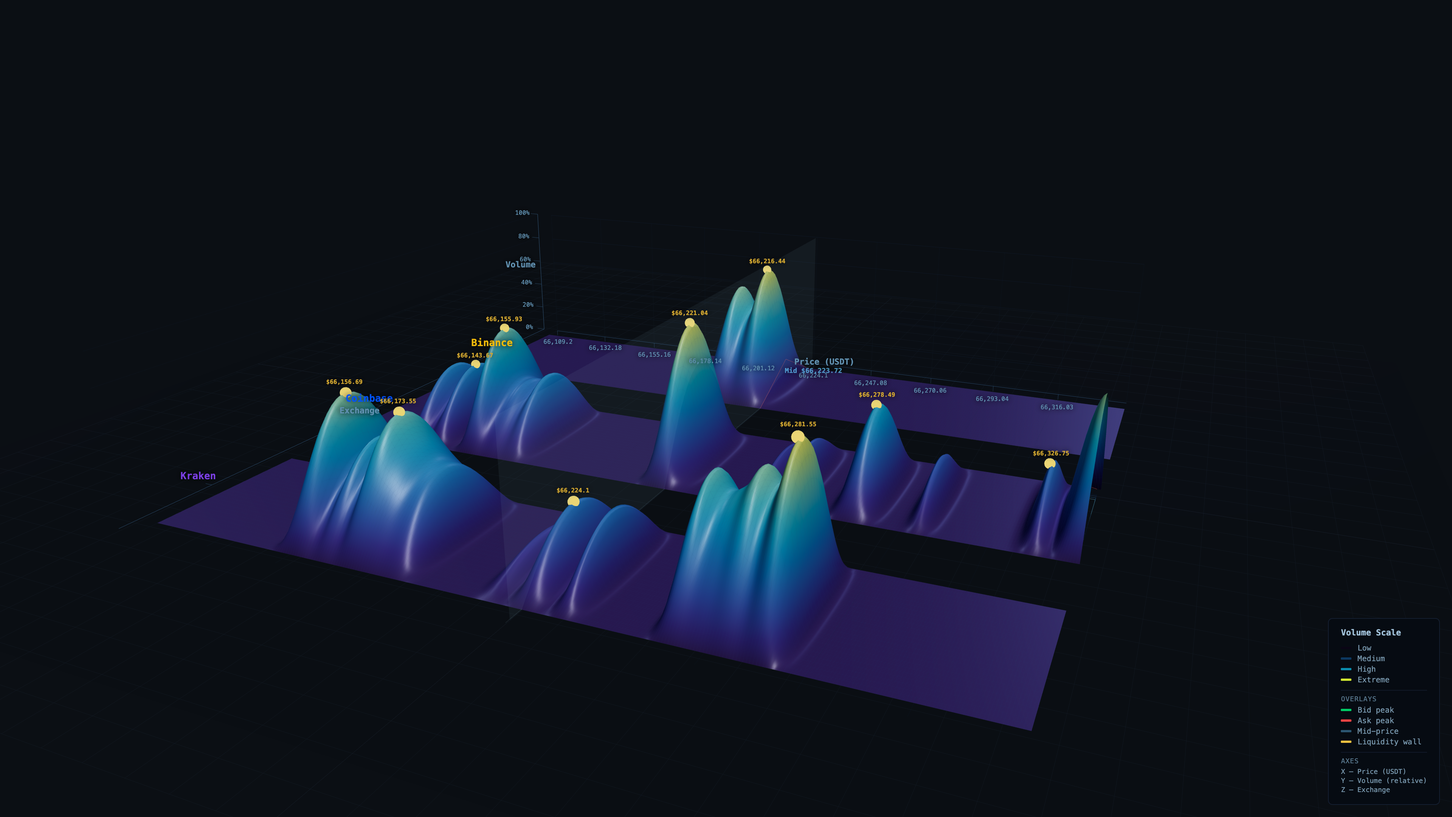
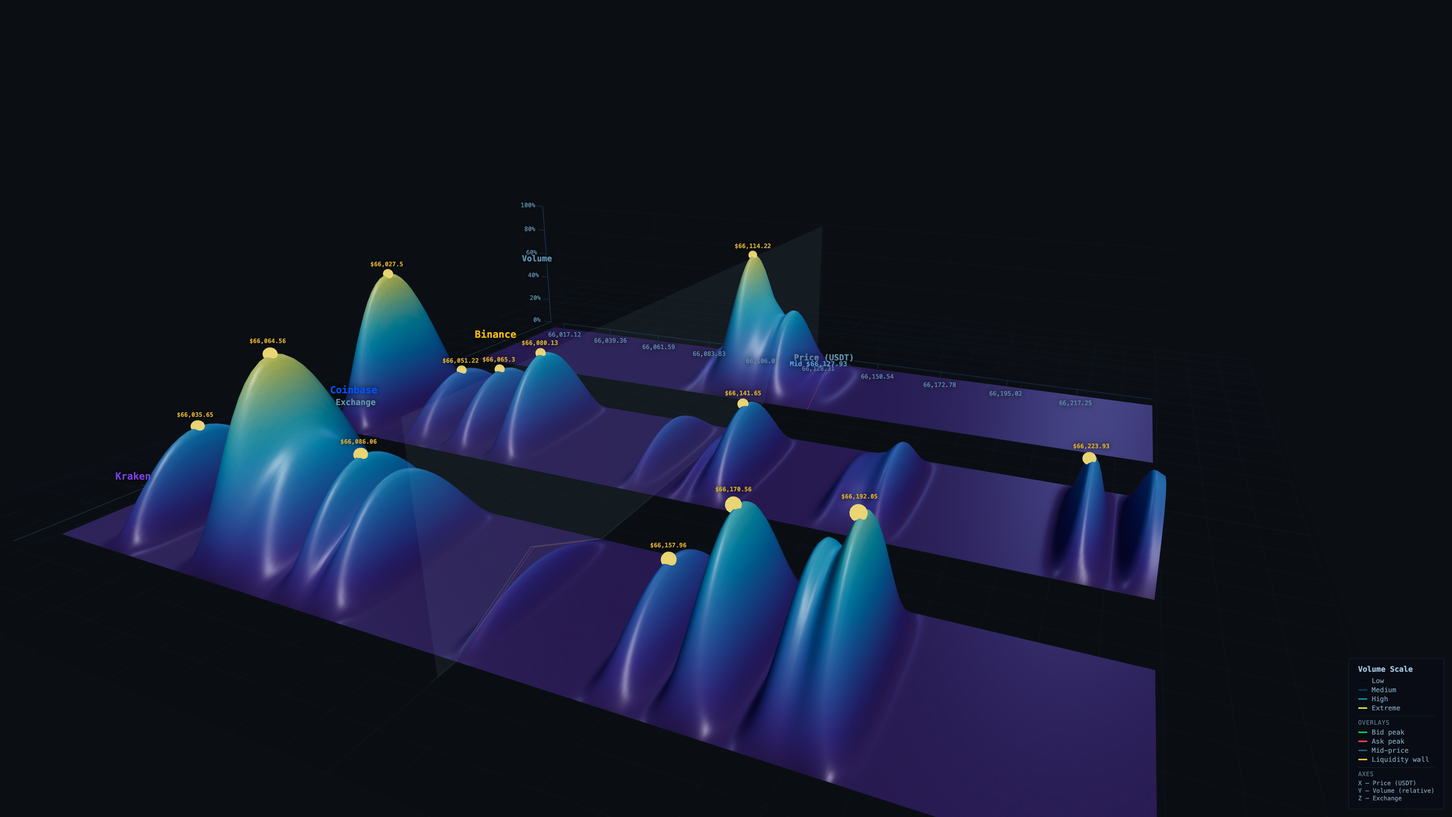
Optimize layout: tighter camera framing, compact legend, reduced empty space

Changed region(s): [[0.0312, 0.3102, 0.8125, 1.0], [0.9062, 0.8065, 0.9688, 0.9926], [0.3438, 0.3102, 0.375, 0.3412]]

diff --git a/output/3d_liquidity_pro.html b/output/3d_liquidity_pro.html
@@ -21,17 +21,17 @@
   #tooltip .t-wall { color:#f0c040; font-size:9px; margin-top:4px; }
 
   #legend {
-    position:fixed; bottom:16px; right:16px; z-index:90;
-    background:rgba(6,10,18,0.88); border:1px solid rgba(40,60,90,0.4);
-    padding:12px 16px; border-radius:6px; font-size:10px;
-    backdrop-filter:blur(8px); color:#7a9ab0; min-width:140px;
+    position:fixed; bottom:10px; right:10px; z-index:90;
+    background:rgba(8,12,20,0.85); border:1px solid rgba(40,60,90,0.3);
+    padding:8px 12px; border-radius:4px; font-size:9px;
+    backdrop-filter:blur(6px); color:#7a9ab0;
   }
-  #legend .l-title { font-size:11px; color:#a0c0d8; font-weight:600; margin-bottom:8px; }
-  #legend .l-row { display:flex; align-items:center; gap:8px; margin:3px 0; }
-  #legend .l-swatch { width:14px; height:3px; border-radius:1px; }
-  .l-section { margin-top:8px; padding-top:6px; border-top:1px solid rgba(40,60,90,0.3); }
-  .l-section-title { font-size:9px; color:#5a7a90; text-transform:uppercase; letter-spacing:0.5px; margin-bottom:4px; }
-  #legend .l-axis { display:flex; align-items:center; gap:6px; margin:2px 0; font-size:9px; }
+  #legend .l-title { font-size:10px; color:#a0c0d8; font-weight:600; margin-bottom:5px; }
+  #legend .l-row { display:flex; align-items:center; gap:6px; margin:2px 0; }
+  #legend .l-swatch { width:12px; height:2px; border-radius:1px; }
+  .l-section { margin-top:5px; padding-top:4px; border-top:1px solid rgba(40,60,90,0.25); }
+  .l-section-title { font-size:8px; color:#5a7a90; text-transform:uppercase; letter-spacing:0.4px; margin-bottom:3px; }
+  #legend .l-axis { display:flex; align-items:center; gap:5px; margin:1px 0; font-size:8px; }
 </style>
 </head>
 <body>
@@ -71,7 +71,7 @@ import { OrbitControls } from 'three/addons/controls/OrbitControls.js';
 import { CSS2DRenderer, CSS2DObject } from 'three/addons/renderers/CSS2DRenderer.js';
 
 /* ═══════════════════ DATA ═══════════════════ */
-const D = {"exchanges":["Binance","Coinbase","Kraken"],"profiles":{"Binance":[0.0,0.0,0.0,0.0,0.0,0.0,0.0,0.0,0.0,0.0,0.0,0.0,0.0,0.0,0.0,0.0,0.0,0.0,0.0,0.0,0.0,0.0,0.0,0.0,0.0,0.0,0.0,0.0,0.0,0.0,0.0,0.0,0.0,0.0,0.0,0.0,0.0,0.0,0.0,0.0,0.0,0.0,0.0,0.0,0.0,0.0,0.0,0.0,0.0,0.0,0.0,0.0,0.0,0.0,0.0,0.0,0.0,0.0,0.0,0.0,0.0,0.0,0.0,0.0,0.0,0.0,0.0,0.0,0.0,0.0,0.0,0.0,0.0,0.0,0.0,0.0,0.0,0.0,0.0,0.0,0.0,0.0,0.0,0.0,0.0,0.0,0.0,0.0,0.0,0.0,0.0,0.0,0.0,0.0,0.0,0.0,0.0,0.0,0.0,0.0,0.0,0.0,0.0,0.0,0.0,0.0,0.0,0.0,0.0,0.0001,0.0005,0.0017,0.0045,0.0103,0.021,0.0393,0.0684,0.1115,0.1716,0.2496,0.3438,0.4491,0.5572,0.6581,0.7419,0.8009,0.8311,0.8333,0.8122,0.7757,0.7329,0.6932,0.6652,0.6562,0.6713,0.7117,0.7735,0.8472,0.9192,0.9745,1.0,0.9874,0.9345,0.8457,0.7305,0.6016,0.4722,0.3533,0.2526,0.1732,0.1148,0.0742,0.0473,0.0301,0.019,0.012,0.0074,0.0044,0.0025,0.0013,0.0006,0.0003,0.0001,0.0,0.0,0.0,0.0,0.0,0.0,0.0,0.0,0.0,0.0,0.0,0.0,0.0,0.0,0.0,0.0,0.0,0.0,0.0,0.0,0.0,0.0,0.0,0.0,0.0,0.0,0.0,0.0,0.0,0.0,0.0,0.0,0.0,0.0,0.0,0.0,0.0,0.0,0.0,0.0,0.0,0.0,0.0,0.0,0.0,0.0,0.0,0.0,0.0,0.0,0.0,0.0,0.0,0.0,0.0,0.0,0.0,0.0,0.0,0.0,0.0,0.0,0.0,0.0,0.0,0.0,0.0,0.0,0.0,0.0,0.0,0.0,0.0,0.0,0.0,0.0,0.0,0.0,0.0,0.0,0.0,0.0,0.0,0.0,0.0,0.0,0.0,0.0,0.0,0.0,0.0,0.0,0.0,0.0,0.0,0.0,0.0,0.0,0.0,0.0,0.0,0.0,0.0,0.0,0.0,0.0,0.0,0.0,0.0,0.0,0.0,0.0,0.0,0.0,0.0,0.0,0.0,0.0,0.0,0.0,0.0,0.0,0.0,0.0,0.0,0.0,0.0,0.0,0.0,0.0,0.0,0.0,0.0,0.0,0.0,0.0,0.0],"Coinbase":[0.0,0.0,0.0,0.0,0.0,0.0,0.0,0.0,0.0,0.0,0.0,0.0,0.0,0.0,0.0,0.0,0.0,0.0,0.0,0.0,0.0,0.0,0.0,0.0,0.0003,0.0016,0.0071,0.0242,0.0638,0.1332,0.2259,0.3217,0.3981,0.4421,0.4519,0.4319,0.3901,0.3387,0.2937,0.271,0.2803,0.3197,0.376,0.4309,0.4674,0.4731,0.4415,0.3732,0.279,0.1793,0.0966,0.0441,0.0238,0.0357,0.0862,0.1835,0.3224,0.4788,0.6212,0.7259,0.7825,0.7914,0.7598,0.6989,0.6221,0.5438,0.4765,0.4293,0.4053,0.4006,0.4056,0.4096,0.405,0.3908,0.3724,0.3596,0.3611,0.38,0.4117,0.446,0.4711,0.4768,0.456,0.4047,0.3247,0.2277,0.1345,0.0647,0.0246,0.0073,0.0016,0.0003,0.0,0.0,0.0,0.0,0.0,0.0,0.0,0.0,0.0,0.0,0.0,0.0,0.0,0.0,0.0,0.0,0.0,0.0,0.0,0.0,0.0,0.0,0.0,0.0,0.0,0.0,0.0,0.0,0.0,0.0,0.0,0.0,0.0,0.0,0.0,0.0,0.0,0.0,0.0,0.0,0.0,0.0001,0.0009,0.0044,0.0161,0.0472,0.1112,0.2161,0.3568,0.5163,0.6739,0.8123,0.9185,0.983,1.0,0.9688,0.8941,0.7858,0.6573,0.5234,0.3983,0.2922,0.2089,0.146,0.0977,0.0598,0.0318,0.014,0.005,0.0014,0.0003,0.0,0.0,0.0,0.0,0.0,0.0,0.0,0.0,0.0,0.0,0.0,0.0,0.0,0.0,0.0002,0.0009,0.004,0.0134,0.0348,0.0709,0.116,0.1563,0.1771,0.1712,0.1418,0.1018,0.0694,0.0617,0.0854,0.1338,0.1897,0.2342,0.2543,0.2456,0.2107,0.1586,0.1024,0.0553,0.0243,0.0086,0.0024,0.0005,0.0001,0.0,0.0,0.0001,0.0006,0.0029,0.0109,0.0322,0.0762,0.1477,0.2409,0.341,0.4327,0.5062,0.5576,0.586,0.592,0.5771,0.5431,0.4914,0.4225,0.3382,0.2448,0.1548,0.0827,0.0362,0.0127,0.0035,0.0007,0.0001,0.0,0.0001,0.0009,0.004,0.0142,0.0393,0.0863,0.153,0.2237,0.2742,0.2845,0.2497,0.183,0.11,0.053,0.0201,0.0059,0.0013,0.0002,0.0,0.0,0.0,0.0,0.0,0.0,0.0,0.0,0.0,0.0,0.0,0.0,0.0,0.0,0.0,0.0,0.0,0.0,0.0,0.0,0.0,0.0003,0.0015,0.0068,0.023,0.0603,0.1248,0.2089,0.2913,0.348,0.3641,0.3361,0.2724,0.1935,0.1296,0.1098,0.1483,0.2386,0.3583,0.4823,0.5941,0.6867,0.7593,0.8128,0.848,0.8655],"Kraken":[0.0,0.0,0.0,0.0,0.0,0.0,0.0,0.0,0.0,0.0,0.0,0.0,0.0,0.0,0.0,0.0,0.0,0.0,0.0,0.0,0.0,0.0,0.0,0.0,0.0,0.0,0.0,0.0,0.0,0.0,0.0,0.0,0.0,0.0,0.0,0.0,0.0,0.0,0.0,0.0,0.0,0.0,0.0,0.0,0.0,0.0,0.0,0.0,0.0003,0.0017,0.0078,0.0266,0.0708,0.1496,0.2591,0.3811,0.4963,0.5955,0.6787,0.7475,0.8001,0.8314,0.8353,0.808,0.75,0.6682,0.577,0.4969,0.4484,0.4422,0.4729,0.5209,0.5622,0.5788,0.5652,0.5294,0.4901,0.4687,0.4805,0.5266,0.5944,0.6649,0.7216,0.7556,0.7659,0.7568,0.7346,0.7056,0.6744,0.6442,0.6164,0.5909,0.5667,0.5428,0.5194,0.4985,0.4826,0.4732,0.4692,0.467,0.4613,0.4472,0.4212,0.3812,0.3266,0.2589,0.1841,0.1135,0.0587,0.0247,0.0083,0.0022,0.0004,0.0001,0.0,0.0,0.0,0.0,0.0,0.0,0.0,0.0,0.0,0.0,0.0,0.0,0.0,0.0001,0.0003,0.0016,0.0055,0.0154,0.0339,0.0612,0.093,0.123,0.1458,0.1578,0.1559,0.1385,0.1082,0.0747,0.0527,0.0562,0.092,0.1558,0.233,0.3055,0.3595,0.3889,0.3937,0.3768,0.3419,0.2921,0.2308,0.1649,0.1069,0.0732,0.078,0.1252,0.2038,0.2901,0.3586,0.3903,0.3761,0.3175,0.2294,0.1378,0.0669,0.0256,0.0076,0.0017,0.0003,0.0,0.0,0.0,0.0,0.0,0.0,0.0,0.0,0.0,0.0,0.0,0.0,0.0,0.0,0.0002,0.001,0.005,0.019,0.056,0.1317,0.2514,0.3994,0.5439,0.6554,0.7205,0.7417,0.73,0.7,0.6657,0.6382,0.6237,0.6228,0.6312,0.6435,0.656,0.6689,0.6854,0.7086,0.7388,0.7716,0.7985,0.8108,0.8037,0.7791,0.7459,0.7185,0.7111,0.7326,0.7823,0.8507,0.9215,0.9768,1.0,0.9782,0.9027,0.7719,0.5961,0.4026,0.2297,0.1072,0.0398,0.0115,0.0026,0.0004,0.0,0.0,0.0,0.0,0.0,0.0,0.0,0.0,0.0,0.0,0.0,0.0,0.0,0.0,0.0,0.0,0.0,0.0,0.0,0.0,0.0,0.0,0.0,0.0,0.0,0.0,0.0,0.0,0.0,0.0,0.0,0.0,0.0,0.0,0.0,0.0,0.0,0.0,0.0,0.0,0.0,0.0,0.0,0.0,0.0,0.0,0.0,0.0,0.0,0.0,0.0,0.0,0.0,0.0,0.0,0.0,0.0,0.0,0.0,0.0,0.0,0.0,0.0]},"slopes":{"Binance":[0.0,0.0,0.0,0.0,0.0,0.0,0.0,0.0,0.0,0.0,0.0,0.0,0.0,0.0,0.0,0.0,0.0,0.0,0.0,0.0,0.0,0.0,0.0,0.0,0.0,0.0,0.0,0.0,0.0,0.0,0.0,0.0,0.0,0.0,0.0,0.0,0.0,0.0,0.0,0.0,0.0,0.0,0.0,0.0,0.0,0.0,0.0,0.0,0.0,0.0,0.0,0.0,0.0,0.0,0.0,0.0,0.0,0.0,0.0,0.0,0.0,0.0,0.0,0.0,0.0,0.0,0.0,0.0,0.0,0.0,0.0,0.0,0.0,0.0,0.0,0.0,0.0,0.0,0.0,0.0,0.0,0.0,0.0,0.0,0.0,0.0,0.0,0.0,0.0,0.0,0.0,0.0,0.0,0.0,0.0,0.0,0.0,0.0,0.0,0.0,0.0,0.0,0.0,0.0,0.0,0.0,0.0,0.0001,0.0005,0.0019,0.006,0.0153,0.0333,0.0641,0.1125,0.1832,0.2795,0.3997,0.5346,0.6666,0.772,0.8259,0.8093,0.7152,0.5527,0.3452,0.1253,0.0732,0.2229,0.307,0.3193,0.2622,0.1432,0.0235,0.2148,0.3958,0.5248,0.5642,0.4927,0.3127,0.0498,0.2537,0.5486,0.7897,0.9448,1.0,0.9612,0.8501,0.6973,0.5334,0.3832,0.261,0.1709,0.1096,0.0701,0.0452,0.0293,0.0189,0.0119,0.0071,0.004,0.0021,0.001,0.0004,0.0001,0.0,0.0,0.0,0.0,0.0,0.0,0.0,0.0,0.0,0.0,0.0,0.0,0.0,0.0,0.0,0.0,0.0,0.0,0.0,0.0,0.0,0.0,0.0,0.0,0.0,0.0,0.0,0.0,0.0,0.0,0.0,0.0,0.0,0.0,0.0,0.0,0.0,0.0,0.0,0.0,0.0,0.0,0.0,0.0,0.0,0.0,0.0,0.0,0.0,0.0,0.0,0.0,0.0,0.0,0.0,0.0,0.0,0.0,0.0,0.0,0.0,0.0,0.0,0.0,0.0,0.0,0.0,0.0,0.0,0.0,0.0,0.0,0.0,0.0,0.0,0.0,0.0,0.0,0.0,0.0,0.0,0.0,0.0,0.0,0.0,0.0,0.0,0.0,0.0,0.0,0.0,0.0,0.0,0.0,0.0,0.0,0.0,0.0,0.0,0.0,0.0,0.0,0.0,0.0,0.0,0.0,0.0,0.0,0.0,0.0,0.0,0.0,0.0,0.0,0.0,0.0,0.0,0.0,0.0,0.0,0.0,0.0,0.0,0.0,0.0,0.0,0.0,0.0,0.0,0.0,0.0,0.0,0.0,0.0,0.0],"Coinbase":[0.0,0.0,0.0,0.0,0.0,0.0,0.0,0.0,0.0,0.0,0.0,0.0,0.0,0.0,0.0,0.0,0.0,0.0,0.0,0.0,0.0,0.0,0.0001,0.0008,0.0049,0.0216,0.0713,0.1788,0.3437,0.5113,0.5944,0.5428,0.3798,0.1699,0.0324,0.195,0.2937,0.3041,0.2137,0.042,0.1536,0.3016,0.3506,0.2883,0.1333,0.0815,0.315,0.5126,0.6116,0.5752,0.4262,0.2294,0.0266,0.1968,0.4663,0.7448,0.9312,0.9423,0.779,0.5085,0.2068,0.0715,0.2919,0.4341,0.4891,0.4594,0.3611,0.2244,0.0905,0.001,0.0286,0.0018,0.0595,0.1029,0.0981,0.0355,0.0642,0.1594,0.2082,0.1874,0.0972,0.0477,0.2276,0.414,0.5582,0.6,0.5141,0.3464,0.181,0.0725,0.022,0.0051,0.0009,0.0001,0.0,0.0,0.0,0.0,0.0,0.0,0.0,0.0,0.0,0.0,0.0,0.0,0.0,0.0,0.0,0.0,0.0,0.0,0.0,0.0,0.0,0.0,0.0,0.0,0.0,0.0,0.0,0.0,0.0,0.0,0.0,0.0,0.0,0.0,0.0,0.0,0.0,0.0,0.0004,0.0028,0.0133,0.048,0.1352,0.2997,0.5325,0.7746,0.9467,1.0,0.9335,0.7713,0.5381,0.257,0.0446,0.3338,0.5771,0.747,0.8273,0.8165,0.7293,0.5973,0.4608,0.3507,0.2719,0.208,0.1445,0.0846,0.0398,0.0147,0.0042,0.0009,0.0001,0.0,0.0,0.0,0.0,0.0,0.0,0.0,0.0,0.0,0.0,0.0001,0.0005,0.0028,0.0121,0.0394,0.0971,0.1813,0.2562,0.2693,0.1925,0.047,0.1112,0.219,0.2283,0.1265,0.0501,0.2275,0.3291,0.3166,0.2037,0.0359,0.1375,0.2744,0.3417,0.3257,0.246,0.1473,0.0693,0.0254,0.0072,0.0016,0.0002,0.0003,0.0018,0.0088,0.0324,0.0923,0.206,0.3645,0.5195,0.6095,0.6047,0.5209,0.394,0.2517,0.1085,0.0281,0.1542,0.2705,0.3804,0.483,0.5605,0.5785,0.5111,0.3738,0.2207,0.1032,0.0377,0.0106,0.0022,0.0001,0.0026,0.0122,0.0421,0.1114,0.2273,0.3584,0.4332,0.3821,0.192,0.0772,0.3201,0.4407,0.4101,0.2834,0.1485,0.0592,0.0179,0.0041,0.0007,0.0001,0.0,0.0,0.0,0.0,0.0,0.0,0.0,0.0,0.0,0.0,0.0,0.0,0.0,0.0,0.0,0.0,0.0,0.0001,0.0008,0.0047,0.0206,0.0678,0.1688,0.321,0.4685,0.5249,0.4387,0.2297,0.0374,0.289,0.4497,0.4503,0.2642,0.059,0.4064,0.662,0.7685,0.7436,0.6444,0.521,0.3975,0.2796,0.1662,0.1103],"Kraken":[0.0,0.0,0.0,0.0,0.0,0.0,0.0,0.0,0.0,0.0,0.0,0.0,0.0,0.0,0.0,0.0,0.0,0.0,0.0,0.0,0.0,0.0,0.0,0.0,0.0,0.0,0.0,0.0,0.0,0.0,0.0,0.0,0.0,0.0,0.0,0.0,0.0,0.0,0.0,0.0,0.0,0.0,0.0,0.0,0.0,0.0,0.0001,0.0008,0.0046,0.0203,0.0673,0.1705,0.3332,0.51,0.6267,0.6422,0.5804,0.4938,0.4116,0.3289,0.2272,0.0953,0.0632,0.2309,0.3786,0.4686,0.4638,0.3482,0.148,0.0665,0.2131,0.2416,0.1565,0.0081,0.1335,0.2033,0.1644,0.0258,0.1567,0.3084,0.3745,0.3444,0.2455,0.1198,0.0031,0.0847,0.1386,0.1629,0.1661,0.1571,0.1444,0.1347,0.1304,0.1279,0.1198,0.0997,0.0686,0.0363,0.0169,0.0215,0.0535,0.1085,0.1786,0.256,0.3312,0.3859,0.3938,0.3396,0.2402,0.1363,0.061,0.0214,0.0058,0.0012,0.0002,0.0,0.0,0.0,0.0,0.0,0.0,0.0,0.0,0.0,0.0,0.0,0.0001,0.0009,0.0041,0.0141,0.0374,0.0768,0.1241,0.1599,0.1673,0.1429,0.0942,0.0274,0.0521,0.1291,0.1728,0.1504,0.0501,0.1065,0.2698,0.3818,0.4053,0.3425,0.2258,0.0925,0.0327,0.1401,0.2294,0.3009,0.3444,0.3356,0.2482,0.0782,0.1409,0.3406,0.4464,0.419,0.2711,0.0475,0.197,0.3971,0.4866,0.4401,0.3038,0.1605,0.0646,0.0197,0.0045,0.0008,0.0001,0.0,0.0,0.0,0.0,0.0,0.0,0.0,0.0,0.0,0.0,0.0,0.0004,0.0027,0.0132,0.0485,0.138,0.3052,0.5291,0.7249,0.7921,0.6932,0.4782,0.2334,0.0257,0.1127,0.1743,0.1674,0.1135,0.0417,0.0202,0.0561,0.0673,0.0689,0.0793,0.1073,0.1448,0.1706,0.1614,0.1063,0.0143,0.086,0.1566,0.1639,0.0942,0.038,0.1928,0.3198,0.3767,0.3414,0.2126,0.0038,0.2635,0.5585,0.8302,1.0,0.992,0.7996,0.5141,0.2591,0.101,0.0301,0.0068,0.0011,0.0001,0.0,0.0,0.0,0.0,0.0,0.0,0.0,0.0,0.0,0.0,0.0,0.0,0.0,0.0,0.0,0.0,0.0,0.0,0.0,0.0,0.0,0.0,0.0,0.0,0.0,0.0,0.0,0.0,0.0,0.0,0.0,0.0,0.0,0.0,0.0,0.0,0.0,0.0,0.0,0.0,0.0,0.0,0.0,0.0,0.0,0.0,0.0,0.0,0.0,0.0,0.0,0.0,0.0,0.0,0.0,0.0,0.0,0.0,0.0,0.0,0.0]},"n_bins":300,"price_labels":[{"idx":0,"val":66109.2},{"idx":30,"val":66132.18},{"idx":60,"val":66155.16},{"idx":90,"val":66178.14},{"idx":120,"val":66201.12},{"idx":150,"val":66224.1},{"idx":180,"val":66247.08},{"idx":210,"val":66270.06},{"idx":240,"val":66293.04},{"idx":270,"val":66316.03}],"price_range":[66109.2,66338.24],"mid_price":66223.72,"mid_idx":150,"bid_ask":{"Binance":{"bid_idx":143.2,"ask_idx":150.0,"bid_price":66218.74,"ask_price":66224.1},"Coinbase":{"bid_idx":77.2,"ask_idx":298.5,"bid_price":66168.18,"ask_price":66337.47},"Kraken":{"bid_idx":149.2,"ask_idx":150.0,"bid_price":66223.34,"ask_price":66224.1}},"walls":{"Binance":[{"idx":140,"height":1.0,"price":66216.44}],"Coinbase":[{"idx":146,"height":1.0,"price":66221.04},{"idx":61,"height":0.791,"price":66155.93},{"idx":221,"height":0.592,"price":66278.49},{"idx":45,"height":0.473,"price":66143.67},{"idx":284,"height":0.364,"price":66326.75}],"Kraken":[{"idx":225,"height":1.0,"price":66281.55},{"idx":62,"height":0.835,"price":66156.69},{"idx":84,"height":0.766,"price":66173.55},{"idx":150,"height":0.394,"price":66224.1}]},"contours":{"Binance":[{"level":0.15,"segments":[[118,149]]},{"level":0.3,"segments":[[120,147]]},{"level":0.5,"segments":[[122,145]]},{"level":0.7,"segments":[[124,130],[135,144]]},{"level":0.9,"segments":[[138,142]]}],"Coinbase":[{"level":0.15,"segments":[[30,49],[55,85],[139,154],[184,186],[193,198],[215,228],[242,247],[281,287],[291,299]]},{"level":0.3,"segments":[[31,37],[41,47],[56,84],[140,152],[216,226],[283,285],[292,299]]},{"level":0.5,"segments":[[58,65],[141,151],[218,223],[294,299]]},{"level":0.7,"segments":[[59,62],[143,149],[296,299]]},{"level":0.9,"segments":[[144,147]]}],"Kraken":[{"level":0.15,"segments":[[54,106],[137,138],[145,155],[160,166],[193,231]]},{"level":0.3,"segments":[[55,104],[147,152],[162,165],[194,230]]},{"level":0.5,"segments":[[57,66],[71,75],[79,94],[195,229]]},{"level":0.7,"segments":[[59,64],[82,87],[197,200],[210,228]]},{"level":0.9,"segments":[[223,227]]}]},"contour_levels":[0.15,0.3,0.5,0.7,0.9],"avg_imbalances":{"Binance":0.6238,"Coinbase":-0.0952,"Kraken":-0.0057},"raw_maxes":{"Binance":1.0114,"Coinbase":0.4573,"Kraken":0.2883}};
+const D = {"exchanges":["Binance","Coinbase","Kraken"],"profiles":{"Binance":[0.0,0.0,0.0,0.0,0.0,0.0,0.0,0.0,0.0,0.0,0.0,0.0,0.0,0.0,0.0,0.0,0.0,0.0,0.0,0.0,0.0,0.0,0.0,0.0,0.0,0.0,0.0,0.0,0.0,0.0,0.0,0.0,0.0,0.0,0.0,0.0,0.0,0.0,0.0,0.0,0.0,0.0,0.0,0.0,0.0,0.0,0.0,0.0,0.0,0.0,0.0,0.0,0.0,0.0,0.0,0.0,0.0,0.0,0.0,0.0,0.0,0.0,0.0,0.0,0.0,0.0,0.0,0.0,0.0,0.0,0.0,0.0,0.0,0.0,0.0,0.0,0.0,0.0,0.0,0.0,0.0,0.0,0.0,0.0,0.0,0.0,0.0,0.0,0.0,0.0,0.0,0.0,0.0,0.0,0.0,0.0,0.0,0.0,0.0,0.0,0.0,0.0001,0.0005,0.0013,0.003,0.0062,0.0117,0.0204,0.0332,0.0511,0.074,0.1014,0.1312,0.1607,0.1866,0.2063,0.2186,0.2249,0.2295,0.2385,0.2584,0.2938,0.3465,0.4153,0.4976,0.5899,0.6874,0.7839,0.8714,0.9411,0.9854,1.0,0.9852,0.946,0.8911,0.8306,0.7734,0.7252,0.6874,0.6576,0.6313,0.6051,0.5785,0.5543,0.5374,0.5317,0.538,0.5526,0.5689,0.5795,0.5782,0.5621,0.5311,0.4879,0.4367,0.382,0.3279,0.2774,0.2329,0.1958,0.1673,0.1478,0.1363,0.1308,0.1289,0.1278,0.1253,0.12,0.1114,0.0997,0.0855,0.0701,0.0547,0.0406,0.0286,0.019,0.012,0.0071,0.004,0.002,0.0009,0.0004,0.0001,0.0,0.0,0.0,0.0,0.0,0.0,0.0,0.0,0.0,0.0,0.0,0.0,0.0,0.0,0.0,0.0,0.0,0.0,0.0,0.0,0.0,0.0,0.0,0.0,0.0,0.0,0.0,0.0,0.0,0.0,0.0,0.0,0.0,0.0,0.0,0.0,0.0,0.0,0.0,0.0,0.0,0.0,0.0,0.0,0.0,0.0,0.0,0.0,0.0,0.0,0.0,0.0,0.0,0.0,0.0,0.0,0.0,0.0,0.0,0.0,0.0,0.0,0.0,0.0,0.0,0.0,0.0,0.0,0.0,0.0,0.0,0.0,0.0,0.0,0.0,0.0,0.0,0.0,0.0,0.0,0.0,0.0,0.0,0.0,0.0,0.0,0.0,0.0,0.0,0.0,0.0,0.0,0.0,0.0,0.0,0.0,0.0,0.0,0.0,0.0,0.0,0.0,0.0,0.0,0.0,0.0,0.0,0.0,0.0,0.0,0.0,0.0,0.0,0.0,0.0,0.0,0.0],"Coinbase":[0.0,0.0003,0.0016,0.0074,0.0258,0.0703,0.1535,0.2773,0.4285,0.5869,0.7341,0.8567,0.9453,0.9938,1.0,0.9658,0.8972,0.8026,0.6911,0.5701,0.4452,0.3215,0.2076,0.1152,0.0529,0.0195,0.0056,0.0012,0.0002,0.0,0.0,0.0,0.0,0.0,0.0002,0.0013,0.0056,0.0189,0.0493,0.1013,0.1692,0.2372,0.291,0.3256,0.3447,0.3534,0.3541,0.3446,0.3198,0.2755,0.2132,0.1431,0.0807,0.0372,0.0144,0.0079,0.0148,0.0375,0.0792,0.1377,0.2036,0.2663,0.3197,0.3618,0.3916,0.4067,0.4032,0.377,0.3259,0.2534,0.1716,0.0978,0.0455,0.0169,0.0051,0.0025,0.0065,0.0216,0.0576,0.1226,0.2139,0.3172,0.4142,0.4921,0.5446,0.5697,0.5678,0.5407,0.4912,0.4223,0.3375,0.2442,0.1546,0.0829,0.0365,0.0129,0.0036,0.0008,0.0001,0.0,0.0,0.0,0.0,0.0,0.0,0.0,0.0,0.0,0.0,0.0,0.0,0.0,0.0,0.0,0.0,0.0,0.0,0.0,0.0,0.0,0.0,0.0,0.0,0.0,0.0,0.0,0.0,0.0,0.0,0.0,0.0,0.0002,0.0011,0.0047,0.016,0.0422,0.0875,0.1464,0.2024,0.2366,0.2372,0.2039,0.1482,0.089,0.0431,0.0164,0.0049,0.0011,0.0002,0.0001,0.0008,0.0034,0.0115,0.0299,0.0615,0.1018,0.1396,0.1637,0.1702,0.1643,0.1579,0.1639,0.1898,0.2342,0.2884,0.3417,0.3857,0.4161,0.4311,0.43,0.4111,0.3721,0.3121,0.2356,0.1548,0.0857,0.0388,0.014,0.0039,0.0009,0.0001,0.0,0.0,0.0,0.0,0.0,0.0,0.0,0.0,0.0,0.0,0.0,0.0,0.0,0.0,0.0,0.0,0.0,0.0001,0.0007,0.0031,0.0105,0.0272,0.0554,0.0911,0.1254,0.1503,0.1638,0.1696,0.1724,0.1758,0.1811,0.1878,0.195,0.2024,0.2109,0.2225,0.2385,0.2592,0.2821,0.3027,0.3145,0.3106,0.2852,0.237,0.1725,0.1065,0.0541,0.0221,0.0071,0.0018,0.0003,0.0,0.0,0.0,0.0,0.0,0.0,0.0,0.0,0.0,0.0,0.0,0.0,0.0,0.0,0.0,0.0,0.0,0.0,0.0,0.0,0.0,0.0,0.0,0.0,0.0,0.0,0.0,0.0,0.0,0.0,0.0,0.0,0.0,0.0,0.0,0.0,0.0,0.0002,0.0015,0.0065,0.0222,0.0587,0.1228,0.2089,0.2982,0.3704,0.414,0.4279,0.4155,0.3808,0.326,0.2546,0.1751,0.1021,0.0489,0.0197,0.0112,0.021,0.0526,0.1102,0.1885,0.2707,0.3378,0.379,0.3939,0.3901,0.3783,0.369],"Kraken":[0.0,0.0,0.0,0.0,0.0,0.0,0.0,0.0,0.0,0.0,0.0,0.0,0.0,0.0,0.0,0.0003,0.0015,0.0068,0.0231,0.061,0.1281,0.2193,0.3173,0.4022,0.4617,0.4914,0.4896,0.4551,0.3885,0.297,0.1973,0.1102,0.0503,0.0183,0.0052,0.0011,0.0002,0.0,0.0,0.0,0.0,0.0,0.0,0.0,0.0,0.0,0.0,0.0002,0.0014,0.0064,0.0219,0.0589,0.1262,0.2219,0.3325,0.4416,0.5399,0.6264,0.7041,0.7755,0.8414,0.9004,0.9492,0.9837,1.0,0.9952,0.9687,0.9227,0.8623,0.7954,0.7308,0.6762,0.6356,0.6083,0.5892,0.5714,0.5494,0.5196,0.4812,0.4342,0.3798,0.3202,0.26,0.2065,0.1681,0.1515,0.1595,0.1913,0.2436,0.3111,0.3858,0.4569,0.512,0.5405,0.5364,0.5012,0.4444,0.3826,0.3353,0.3174,0.3327,0.3725,0.4204,0.4605,0.4818,0.4797,0.4546,0.41,0.3505,0.2807,0.2059,0.1341,0.0746,0.0343,0.0126,0.0036,0.0008,0.0001,0.0,0.0,0.0,0.0,0.0,0.0,0.0,0.0,0.0,0.0,0.0,0.0,0.0,0.0,0.0,0.0,0.0,0.0,0.0,0.0,0.0,0.0,0.0,0.0,0.0002,0.0012,0.0052,0.0172,0.0436,0.0858,0.1328,0.1637,0.1622,0.1293,0.0823,0.0413,0.0161,0.0048,0.0011,0.0002,0.0,0.0,0.0,0.0,0.0,0.0,0.0,0.0,0.0,0.0,0.0,0.0,0.0,0.0,0.0,0.0,0.0,0.0,0.0,0.0,0.0,0.0002,0.0012,0.0053,0.018,0.0473,0.0983,0.1663,0.2372,0.2963,0.3361,0.3558,0.3575,0.343,0.3129,0.2675,0.2086,0.1434,0.0841,0.0436,0.0295,0.0462,0.0978,0.1841,0.2955,0.4136,0.5203,0.6039,0.6595,0.6861,0.6847,0.6575,0.6069,0.5358,0.4475,0.3475,0.2448,0.1518,0.0807,0.0378,0.0227,0.0341,0.0739,0.144,0.2396,0.3469,0.4481,0.5281,0.5778,0.5958,0.5891,0.5713,0.5591,0.5665,0.5984,0.6486,0.703,0.7447,0.7597,0.7392,0.6792,0.5805,0.4503,0.3068,0.177,0.0836,0.0314,0.0092,0.002,0.0003,0.0,0.0,0.0,0.0,0.0,0.0,0.0,0.0,0.0,0.0,0.0,0.0,0.0,0.0,0.0,0.0,0.0,0.0,0.0,0.0,0.0,0.0,0.0,0.0,0.0,0.0,0.0,0.0,0.0,0.0,0.0,0.0,0.0,0.0,0.0,0.0,0.0,0.0,0.0,0.0,0.0,0.0,0.0,0.0,0.0,0.0,0.0,0.0,0.0,0.0,0.0,0.0]},"slopes":{"Binance":[0.0,0.0,0.0,0.0,0.0,0.0,0.0,0.0,0.0,0.0,0.0,0.0,0.0,0.0,0.0,0.0,0.0,0.0,0.0,0.0,0.0,0.0,0.0,0.0,0.0,0.0,0.0,0.0,0.0,0.0,0.0,0.0,0.0,0.0,0.0,0.0,0.0,0.0,0.0,0.0,0.0,0.0,0.0,0.0,0.0,0.0,0.0,0.0,0.0,0.0,0.0,0.0,0.0,0.0,0.0,0.0,0.0,0.0,0.0,0.0,0.0,0.0,0.0,0.0,0.0,0.0,0.0,0.0,0.0,0.0,0.0,0.0,0.0,0.0,0.0,0.0,0.0,0.0,0.0,0.0,0.0,0.0,0.0,0.0,0.0,0.0,0.0,0.0,0.0,0.0,0.0,0.0,0.0,0.0,0.0,0.0,0.0,0.0,0.0,0.0002,0.0007,0.0023,0.0059,0.0131,0.0254,0.0447,0.0729,0.1111,0.1583,0.2104,0.2593,0.2945,0.3056,0.2855,0.235,0.1649,0.0962,0.0564,0.0701,0.149,0.2851,0.4537,0.6259,0.7791,0.8999,0.9782,1.0,0.9482,0.8101,0.5877,0.3037,0.0011,0.2783,0.4847,0.5949,0.6069,0.5433,0.4431,0.3485,0.2891,0.2702,0.2723,0.2621,0.212,0.1163,0.0033,0.1078,0.1594,0.1383,0.0479,0.0895,0.2428,0.3823,0.4867,0.5459,0.5608,0.5391,0.4899,0.4208,0.3377,0.2475,0.1602,0.0873,0.038,0.0159,0.0187,0.0398,0.0713,0.1049,0.1338,0.1527,0.1587,0.1519,0.1346,0.111,0.0854,0.0615,0.0414,0.0262,0.0155,0.0085,0.0042,0.0018,0.0007,0.0002,0.0001,0.0,0.0,0.0,0.0,0.0,0.0,0.0,0.0,0.0,0.0,0.0,0.0,0.0,0.0,0.0,0.0,0.0,0.0,0.0,0.0,0.0,0.0,0.0,0.0,0.0,0.0,0.0,0.0,0.0,0.0,0.0,0.0,0.0,0.0,0.0,0.0,0.0,0.0,0.0,0.0,0.0,0.0,0.0,0.0,0.0,0.0,0.0,0.0,0.0,0.0,0.0,0.0,0.0,0.0,0.0,0.0,0.0,0.0,0.0,0.0,0.0,0.0,0.0,0.0,0.0,0.0,0.0,0.0,0.0,0.0,0.0,0.0,0.0,0.0,0.0,0.0,0.0,0.0,0.0,0.0,0.0,0.0,0.0,0.0,0.0,0.0,0.0,0.0,0.0,0.0,0.0,0.0,0.0,0.0,0.0,0.0,0.0,0.0,0.0,0.0,0.0,0.0,0.0,0.0,0.0,0.0,0.0,0.0,0.0,0.0,0.0,0.0,0.0,0.0],"Coinbase":[0.0015,0.0052,0.023,0.078,0.203,0.4126,0.6687,0.8882,1.0,0.9868,0.8712,0.6822,0.443,0.1767,0.0904,0.3319,0.5271,0.6659,0.7509,0.7939,0.8028,0.7676,0.6665,0.4996,0.3091,0.1527,0.0589,0.0175,0.0039,0.0007,0.0001,0.0,0.0001,0.0007,0.004,0.0174,0.0569,0.141,0.2663,0.3872,0.4387,0.3934,0.2857,0.1736,0.0898,0.0304,0.0287,0.1108,0.223,0.3442,0.4275,0.4281,0.3423,0.2139,0.0944,0.0014,0.0954,0.2078,0.3237,0.4017,0.4154,0.375,0.3084,0.2323,0.145,0.0375,0.0959,0.2497,0.3991,0.4983,0.5026,0.4072,0.2615,0.1306,0.0465,0.0045,0.0618,0.1652,0.3261,0.5049,0.6285,0.6468,0.5648,0.4211,0.2507,0.0748,0.0938,0.2471,0.3823,0.4964,0.5754,0.5907,0.5207,0.3815,0.2262,0.1065,0.0392,0.0111,0.0024,0.0004,0.0,0.0,0.0,0.0,0.0,0.0,0.0,0.0,0.0,0.0,0.0,0.0,0.0,0.0,0.0,0.0,0.0,0.0,0.0,0.0,0.0,0.0,0.0,0.0,0.0,0.0,0.0,0.0,0.0,0.0001,0.0006,0.0033,0.0146,0.0483,0.121,0.2309,0.3367,0.3712,0.2914,0.1122,0.1057,0.2873,0.3709,0.3395,0.2345,0.1236,0.0496,0.015,0.003,0.0018,0.0105,0.0345,0.0857,0.1616,0.2322,0.2523,0.2,0.0986,0.0017,0.0397,0.0013,0.103,0.2271,0.3187,0.3473,0.3143,0.2402,0.1466,0.0449,0.0647,0.187,0.3198,0.441,0.508,0.4841,0.3747,0.2315,0.1125,0.0424,0.0123,0.0027,0.0004,0.0,0.0,0.0,0.0,0.0,0.0,0.0,0.0,0.0,0.0,0.0,0.0,0.0,0.0,0.0,0.0004,0.0022,0.0097,0.0316,0.0777,0.1449,0.2065,0.2262,0.1909,0.1241,0.0624,0.0277,0.0202,0.0281,0.0387,0.0448,0.0471,0.0515,0.0649,0.0891,0.1186,0.1409,0.1406,0.1045,0.0254,0.0946,0.2378,0.364,0.4214,0.3824,0.2725,0.1517,0.0656,0.0219,0.0056,0.0011,0.0002,0.0,0.0,0.0,0.0,0.0,0.0,0.0,0.0,0.0,0.0,0.0,0.0,0.0,0.0,0.0,0.0,0.0,0.0,0.0,0.0,0.0,0.0,0.0,0.0,0.0,0.0,0.0,0.0,0.0,0.0,0.0,0.0,0.0,0.0001,0.0008,0.0046,0.0203,0.067,0.1685,0.3249,0.4849,0.5665,0.5218,0.374,0.1855,0.0049,0.152,0.2891,0.4076,0.4873,0.4924,0.4077,0.2662,0.1218,0.004,0.1337,0.2882,0.4389,0.5184,0.4823,0.3497,0.1812,0.036,0.0506,0.068,0.0596],"Kraken":[0.0,0.0,0.0,0.0,0.0,0.0,0.0,0.0,0.0,0.0,0.0,0.0,0.0,0.0001,0.0009,0.0054,0.0238,0.0788,0.1982,0.3835,0.5783,0.6913,0.668,0.5278,0.3261,0.1019,0.1329,0.3696,0.5773,0.6985,0.6825,0.5369,0.3358,0.1648,0.0627,0.0183,0.0041,0.0007,0.0001,0.0,0.0,0.0,0.0,0.0,0.0,0.0001,0.0009,0.0051,0.0224,0.075,0.192,0.3807,0.5955,0.7539,0.8026,0.7576,0.6753,0.5999,0.5447,0.5018,0.4562,0.3937,0.3045,0.1856,0.0419,0.1144,0.265,0.3885,0.4648,0.4805,0.4356,0.3478,0.248,0.1698,0.1347,0.1454,0.1893,0.2492,0.312,0.3702,0.4165,0.4377,0.4155,0.336,0.2011,0.0313,0.1455,0.3071,0.4376,0.5198,0.533,0.4611,0.3051,0.089,0.1435,0.3362,0.4333,0.3985,0.2381,0.0093,0.2012,0.3204,0.3217,0.2243,0.0699,0.0996,0.2547,0.3803,0.4723,0.528,0.5356,0.4798,0.3646,0.2266,0.112,0.0431,0.0128,0.0029,0.0005,0.0001,0.0,0.0,0.0,0.0,0.0,0.0,0.0,0.0,0.0,0.0,0.0,0.0,0.0,0.0,0.0,0.0,0.0,0.0,0.0,0.0,0.0001,0.0007,0.0042,0.0182,0.0585,0.1403,0.2506,0.3257,0.2848,0.1077,0.1258,0.2922,0.3215,0.2417,0.1332,0.0549,0.017,0.0039,0.0007,0.0001,0.0,0.0,0.0,0.0,0.0,0.0,0.0,0.0,0.0,0.0,0.0,0.0,0.0,0.0,0.0,0.0,0.0,0.0001,0.0007,0.0043,0.0187,0.0614,0.1533,0.2932,0.4347,0.5076,0.4752,0.3614,0.2174,0.0782,0.047,0.163,0.2758,0.381,0.4534,0.4548,0.3646,0.1998,0.0097,0.2496,0.5038,0.7223,0.8383,0.8214,0.6954,0.5084,0.3,0.0921,0.1044,0.2841,0.4445,0.5823,0.6879,0.7409,0.715,0.5992,0.4166,0.2121,0.0135,0.1871,0.4017,0.6055,0.7411,0.7618,0.6621,0.4736,0.2475,0.0415,0.0898,0.1096,0.0175,0.1434,0.3002,0.3823,0.3509,0.2071,0.0202,0.2939,0.5797,0.8365,1.0,0.9983,0.8153,0.532,0.272,0.1073,0.0323,0.0073,0.0012,0.0001,0.0,0.0,0.0,0.0,0.0,0.0,0.0,0.0,0.0,0.0,0.0,0.0,0.0,0.0,0.0,0.0,0.0,0.0,0.0,0.0,0.0,0.0,0.0,0.0,0.0,0.0,0.0,0.0,0.0,0.0,0.0,0.0,0.0,0.0,0.0,0.0,0.0,0.0,0.0,0.0,0.0,0.0,0.0,0.0,0.0,0.0,0.0,0.0,0.0,0.0]},"n_bins":300,"price_labels":[{"idx":0,"val":66017.12},{"idx":30,"val":66039.36},{"idx":60,"val":66061.59},{"idx":90,"val":66083.83},{"idx":120,"val":66106.07},{"idx":150,"val":66128.31},{"idx":180,"val":66150.54},{"idx":210,"val":66172.78},{"idx":240,"val":66195.02},{"idx":270,"val":66217.25}],"price_range":[66017.12,66238.75],"mid_price":66127.93,"mid_idx":150,"bid_ask":{"Binance":{"bid_idx":148.5,"ask_idx":169.5,"bid_price":66126.82,"ask_price":66142.39},"Coinbase":{"bid_idx":84.0,"ask_idx":172.5,"bid_price":66079.38,"ask_price":66144.61},"Kraken":{"bid_idx":149.2,"ask_idx":150.0,"bid_price":66127.56,"ask_price":66128.31}},"walls":{"Binance":[{"idx":131,"height":1.0,"price":66114.22}],"Coinbase":[{"idx":14,"height":1.0,"price":66027.5},{"idx":85,"height":0.57,"price":66080.13},{"idx":168,"height":0.431,"price":66141.65},{"idx":279,"height":0.428,"price":66223.93},{"idx":65,"height":0.407,"price":66065.3},{"idx":46,"height":0.354,"price":66051.22}],"Kraken":[{"idx":64,"height":1.0,"price":66064.56},{"idx":236,"height":0.76,"price":66192.05},{"idx":207,"height":0.686,"price":66170.56},{"idx":93,"height":0.54,"price":66086.06},{"idx":25,"height":0.491,"price":66035.65},{"idx":190,"height":0.358,"price":66157.96}]},"contours":{"Binance":[{"level":0.15,"segments":[[113,160]]},{"level":0.3,"segments":[[122,156]]},{"level":0.5,"segments":[[125,152]]},{"level":0.7,"segments":[[127,137]]},{"level":0.9,"segments":[[129,133]]}],"Coinbase":[{"level":0.15,"segments":[[6,22],[40,50],[60,70],[80,92],[138,141],[157,174],[206,225],[275,284],[292,299]]},{"level":0.3,"segments":[[8,21],[43,48],[62,68],[81,90],[165,172],[220,222],[277,282],[294,299]]},{"level":0.5,"segments":[[9,19],[84,87]]},{"level":0.7,"segments":[[10,17]]},{"level":0.9,"segments":[[12,15]]}],"Kraken":[{"level":0.15,"segments":[[21,30],[53,110],[149,150],[185,194],[201,215],[222,242]]},{"level":0.3,"segments":[[22,28],[54,81],[89,108],[188,192],[203,213],[223,241]]},{"level":0.5,"segments":[[56,77],[92,95],[204,211],[225,239]]},{"level":0.7,"segments":[[58,70],[234,237]]},{"level":0.9,"segments":[[61,67]]}]},"contour_levels":[0.15,0.3,0.5,0.7,0.9],"avg_imbalances":{"Binance":0.393,"Coinbase":0.1299,"Kraken":0.0104},"raw_maxes":{"Binance":0.6007,"Coinbase":0.3014,"Kraken":0.1239}};
 const EX = D.exchanges;
 const NB = D.n_bins;
 const PROF = D.profiles;
@@ -136,17 +136,17 @@ const scene = new THREE.Scene();
 scene.background = new THREE.Color(BG);
 
 /* ═══════════════════ CAMERA ═══════════════════ */
-const camera = new THREE.PerspectiveCamera(40, window.innerWidth/window.innerHeight, 0.1, 400);
-camera.position.set(11, 8, TD + 10);
+const camera = new THREE.PerspectiveCamera(50, window.innerWidth/window.innerHeight, 0.1, 400);
+camera.position.set(8, 6, TD + 5);
 
 /* ═══════════════════ CONTROLS ═══════════════════ */
 const controls = new OrbitControls(camera, renderer.domElement);
 controls.enableDamping = true;
 controls.dampingFactor = 0.06;
-controls.minDistance = 5;
-controls.maxDistance = 50;
+controls.minDistance = 4;
+controls.maxDistance = 35;
 controls.maxPolarAngle = Math.PI * 0.46;
-controls.target.set(0, 0.6, TD * 0.4);
+controls.target.set(0, 0.5, TD * 0.4);
 controls.autoRotate = true;
 controls.autoRotateSpeed = 0.2;
 
@@ -173,7 +173,7 @@ function addLine(pts, mat) {
 // X axis (Price)
 addLine([new THREE.Vector3(-SW/2, 0, -0.4), new THREE.Vector3(SW/2, 0, -0.4)], axisMat);
 const xT = mkLabel('Price (USDT)', 11, '#6090b0', true);
-xT.position.set(0, -0.2, -1.2);
+xT.position.set(0, -0.15, -0.8);
 scene.add(xT);
 
 // X ticks
@@ -191,7 +191,7 @@ D.price_labels.forEach(pl => {
 const yH = HY * 1.15;
 addLine([new THREE.Vector3(-SW/2-0.4, 0, -0.4), new THREE.Vector3(-SW/2-0.4, yH, -0.4)], axisMat);
 const yT = mkLabel('Volume', 11, '#6090b0', true);
-yT.position.set(-SW/2-1.0, yH*0.55, -0.4);
+yT.position.set(-SW/2-0.7, yH*0.55, -0.4);
 scene.add(yT);
 
 for (let i = 0; i <= 5; i++) {
@@ -207,7 +207,7 @@ for (let i = 0; i <= 5; i++) {
 // Z axis (Exchange)
 addLine([new THREE.Vector3(-SW/2-0.4, 0, -0.4), new THREE.Vector3(-SW/2-0.4, 0, TD+0.4)], axisMat);
 const zT = mkLabel('Exchange', 11, '#6090b0', true);
-zT.position.set(-SW/2-1.0, -0.2, TD*0.5);
+zT.position.set(-SW/2-0.7, -0.15, TD*0.5);
 scene.add(zT);
 
 /* ═══════════════════ BACK WALL GRID ═══════════════════ */
@@ -406,13 +406,13 @@ mpLbl.position.set(mpX, -0.18, -0.4);
 scene.add(mpLbl);
 
 /* ═══════════════════ FLOOR ═══════════════════ */
-const floorGrid = new THREE.GridHelper(24, 36, 0x2a3a50, 0x1a2838);
+const floorGrid = new THREE.GridHelper(18, 28, 0x2a3a50, 0x1a2838);
 floorGrid.position.set(0, -0.01, TD*0.4);
 floorGrid.material.transparent = true;
 floorGrid.material.opacity = 0.3;
 scene.add(floorGrid);
 
-const floorGeo = new THREE.PlaneGeometry(SW*1.8, TD*1.8);
+const floorGeo = new THREE.PlaneGeometry(SW*1.3, TD*1.5);
 floorGeo.rotateX(-Math.PI/2);
 const floorMat = new THREE.MeshStandardMaterial({
   color:BG, roughness:0.7, metalness:0.1, transparent:true, opacity:0.15,

diff --git a/output/dashboard.html b/output/dashboard.html
@@ -34,7 +34,7 @@
 <body>
 <div class="header">
   <h1>Cross-Exchange Liquidity Dashboard — BTC/USDT</h1>
-  <div class="meta">8 snapshots &middot; 66109.2 — 66338.24 USDT</div>
+  <div class="meta">8 snapshots &middot; 66017.12 — 66238.75 USDT</div>
 </div>
 <div class="panels">
   <div class="panel panel-3d">
@@ -48,18 +48,18 @@
       
         <tr>
           <td style="color:#f0b90b;font-weight:600">Binance</td>
-          <td style="color:#00cc66">+0.9132</td>
-          <td>+0.6238</td>
+          <td style="color:#00cc66">+0.1875</td>
+          <td>+0.3930</td>
         </tr>
         <tr>
           <td style="color:#0052ff;font-weight:600">Coinbase</td>
-          <td style="color:#ff4455">-0.3835</td>
-          <td>-0.0952</td>
+          <td style="color:#ff4455">-0.0610</td>
+          <td>+0.1299</td>
         </tr>
         <tr>
           <td style="color:#7b3fe4;font-weight:600">Kraken</td>
           <td style="color:#ff4455">+0.0000</td>
-          <td>-0.0057</td>
+          <td>+0.0104</td>
         </tr>
     </table>
   </div>
@@ -69,7 +69,7 @@
   </div>
 </div>
 <script>
-const sparkData = {"Binance":[0.55,0.555,0.1386,0.3086,0.8323,0.7935,0.899,0.9132],"Coinbase":[-0.1366,-0.0269,0.0085,-0.1792,0.1037,0.0627,-0.2101,-0.3835],"Kraken":[0.0,0.0,0.0,0.0,0.0,-0.0343,-0.0114,0.0]};
+const sparkData = {"Binance":[-0.1612,0.6752,0.8254,0.2104,0.8808,-0.1377,0.6635,0.1875],"Coinbase":[0.2753,0.3006,0.0984,0.2843,0.2835,-0.2925,0.1506,-0.061],"Kraken":[0.0,0.0,0.083,0.0,0.0,0.0,0.0,0.0]};
 const exColors = { Binance:'#f0b90b', Coinbase:'#0052ff', Kraken:'#7b3fe4' };
 const ctr = document.getElementById('sparklines');
 

diff --git a/src/threejs_visualizer.py b/src/threejs_visualizer.py
@@ -239,17 +239,17 @@ def _build_3d_html(payload_json: str) -> str:
   #tooltip .t-wall {{ color:#f0c040; font-size:9px; margin-top:4px; }}
 
   #legend {{
-    position:fixed; bottom:16px; right:16px; z-index:90;
-    background:rgba(6,10,18,0.88); border:1px solid rgba(40,60,90,0.4);
-    padding:12px 16px; border-radius:6px; font-size:10px;
-    backdrop-filter:blur(8px); color:#7a9ab0; min-width:140px;
+    position:fixed; bottom:10px; right:10px; z-index:90;
+    background:rgba(8,12,20,0.85); border:1px solid rgba(40,60,90,0.3);
+    padding:8px 12px; border-radius:4px; font-size:9px;
+    backdrop-filter:blur(6px); color:#7a9ab0;
   }}
-  #legend .l-title {{ font-size:11px; color:#a0c0d8; font-weight:600; margin-bottom:8px; }}
-  #legend .l-row {{ display:flex; align-items:center; gap:8px; margin:3px 0; }}
-  #legend .l-swatch {{ width:14px; height:3px; border-radius:1px; }}
-  .l-section {{ margin-top:8px; padding-top:6px; border-top:1px solid rgba(40,60,90,0.3); }}
-  .l-section-title {{ font-size:9px; color:#5a7a90; text-transform:uppercase; letter-spacing:0.5px; margin-bottom:4px; }}
-  #legend .l-axis {{ display:flex; align-items:center; gap:6px; margin:2px 0; font-size:9px; }}
+  #legend .l-title {{ font-size:10px; color:#a0c0d8; font-weight:600; margin-bottom:5px; }}
+  #legend .l-row {{ display:flex; align-items:center; gap:6px; margin:2px 0; }}
+  #legend .l-swatch {{ width:12px; height:2px; border-radius:1px; }}
+  .l-section {{ margin-top:5px; padding-top:4px; border-top:1px solid rgba(40,60,90,0.25); }}
+  .l-section-title {{ font-size:8px; color:#5a7a90; text-transform:uppercase; letter-spacing:0.4px; margin-bottom:3px; }}
+  #legend .l-axis {{ display:flex; align-items:center; gap:5px; margin:1px 0; font-size:8px; }}
 </style>
 </head>
 <body>
@@ -354,17 +354,17 @@ const scene = new THREE.Scene();
 scene.background = new THREE.Color(BG);
 
 /* ═══════════════════ CAMERA ═══════════════════ */
-const camera = new THREE.PerspectiveCamera(40, window.innerWidth/window.innerHeight, 0.1, 400);
-camera.position.set(11, 8, TD + 10);
+const camera = new THREE.PerspectiveCamera(50, window.innerWidth/window.innerHeight, 0.1, 400);
+camera.position.set(8, 6, TD + 5);
 
 /* ═══════════════════ CONTROLS ═══════════════════ */
 const controls = new OrbitControls(camera, renderer.domElement);
 controls.enableDamping = true;
 controls.dampingFactor = 0.06;
-controls.minDistance = 5;
-controls.maxDistance = 50;
+controls.minDistance = 4;
+controls.maxDistance = 35;
 controls.maxPolarAngle = Math.PI * 0.46;
-controls.target.set(0, 0.6, TD * 0.4);
+controls.target.set(0, 0.5, TD * 0.4);
 controls.autoRotate = true;
 controls.autoRotateSpeed = 0.2;
 
@@ -391,7 +391,7 @@ function addLine(pts, mat) {{
 // X axis (Price)
 addLine([new THREE.Vector3(-SW/2, 0, -0.4), new THREE.Vector3(SW/2, 0, -0.4)], axisMat);
 const xT = mkLabel('Price (USDT)', 11, '#6090b0', true);
-xT.position.set(0, -0.2, -1.2);
+xT.position.set(0, -0.15, -0.8);
 scene.add(xT);
 
 // X ticks
@@ -409,7 +409,7 @@ D.price_labels.forEach(pl => {{
 const yH = HY * 1.15;
 addLine([new THREE.Vector3(-SW/2-0.4, 0, -0.4), new THREE.Vector3(-SW/2-0.4, yH, -0.4)], axisMat);
 const yT = mkLabel('Volume', 11, '#6090b0', true);
-yT.position.set(-SW/2-1.0, yH*0.55, -0.4);
+yT.position.set(-SW/2-0.7, yH*0.55, -0.4);
 scene.add(yT);
 
 for (let i = 0; i <= 5; i++) {{
@@ -425,7 +425,7 @@ for (let i = 0; i <= 5; i++) {{
 // Z axis (Exchange)
 addLine([new THREE.Vector3(-SW/2-0.4, 0, -0.4), new THREE.Vector3(-SW/2-0.4, 0, TD+0.4)], axisMat);
 const zT = mkLabel('Exchange', 11, '#6090b0', true);
-zT.position.set(-SW/2-1.0, -0.2, TD*0.5);
+zT.position.set(-SW/2-0.7, -0.15, TD*0.5);
 scene.add(zT);
 
 /* ═══════════════════ BACK WALL GRID ═══════════════════ */
@@ -624,13 +624,13 @@ mpLbl.position.set(mpX, -0.18, -0.4);
 scene.add(mpLbl);
 
 /* ═══════════════════ FLOOR ═══════════════════ */
-const floorGrid = new THREE.GridHelper(24, 36, 0x2a3a50, 0x1a2838);
+const floorGrid = new THREE.GridHelper(18, 28, 0x2a3a50, 0x1a2838);
 floorGrid.position.set(0, -0.01, TD*0.4);
 floorGrid.material.transparent = true;
 floorGrid.material.opacity = 0.3;
 scene.add(floorGrid);
 
-const floorGeo = new THREE.PlaneGeometry(SW*1.8, TD*1.8);
+const floorGeo = new THREE.PlaneGeometry(SW*1.3, TD*1.5);
 floorGeo.rotateX(-Math.PI/2);
 const floorMat = new THREE.MeshStandardMaterial({{
   color:BG, roughness:0.7, metalness:0.1, transparent:true, opacity:0.15,
